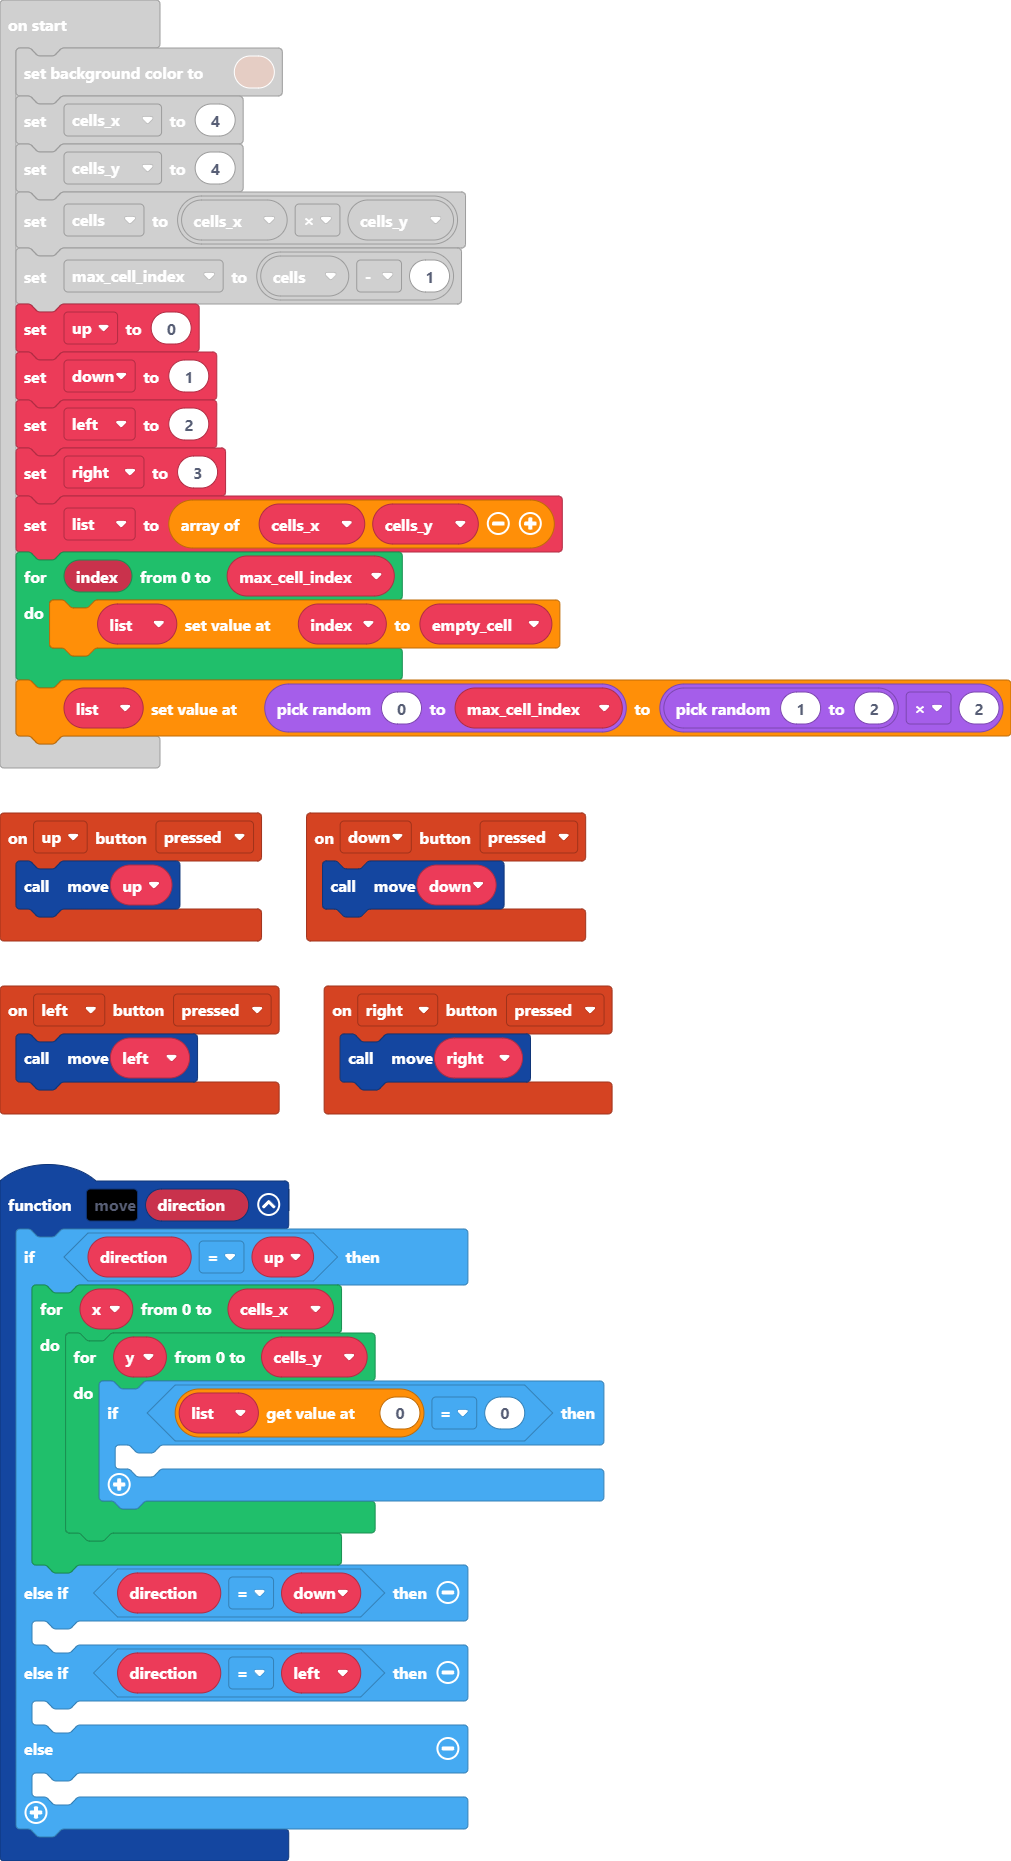
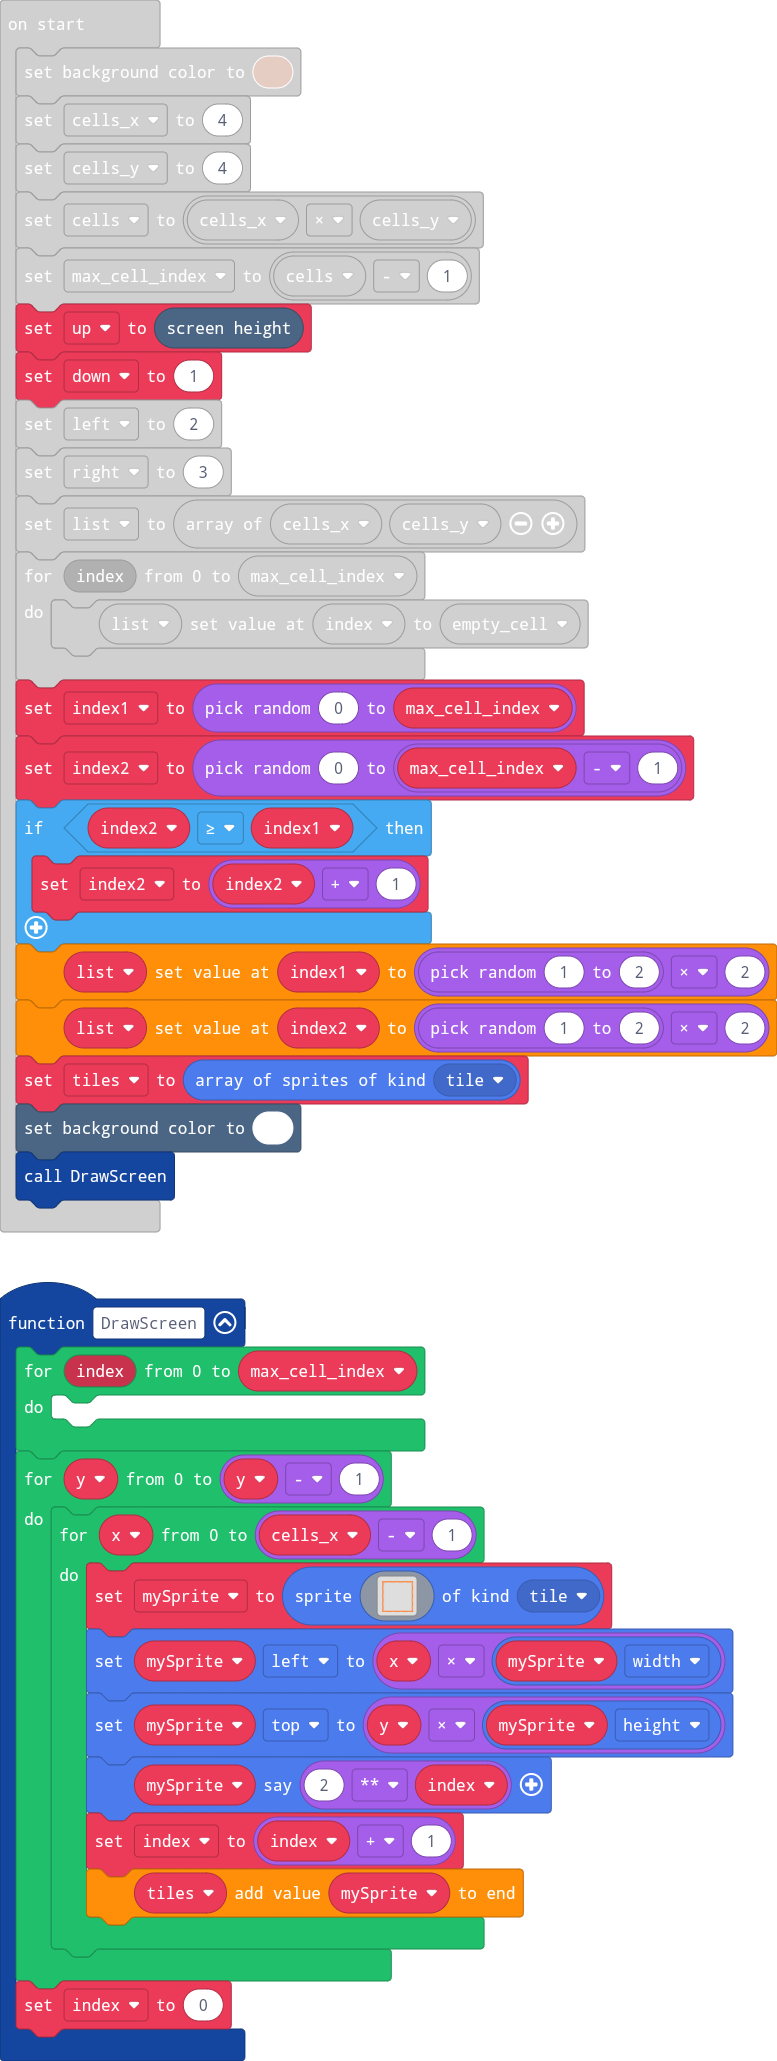
Update pxt.json, main.blocks, main.ts

diff --git a/main.ts b/main.ts
@@ -1,3 +1,51 @@
+namespace SpriteKind {
+    export const tile = SpriteKind.create()
+}
+function DrawScreen () {
+    for (let index = 0; index <= max_cell_index; index++) {
+    	
+    }
+    for (let y = 0; y <= y - 1; y++) {
+        for (let x = 0; x <= cells_x - 1; x++) {
+            mySprite = sprites.create(img`
+                ............................
+                .444444444444444444444444444
+                .4.........................4
+                .4.........................4
+                .4.........................4
+                .4.........................4
+                .4.........................4
+                .4.........................4
+                .4.........................4
+                .4.........................4
+                .4.........................4
+                .4.........................4
+                .4.........................4
+                .4.........................4
+                .4.........................4
+                .4.........................4
+                .4.........................4
+                .4.........................4
+                .4.........................4
+                .4.........................4
+                .4.........................4
+                .4.........................4
+                .4.........................4
+                .4.........................4
+                .4.........................4
+                .4.........................4
+                .4.........................4
+                .444444444444444444444444444
+                `, SpriteKind.tile)
+            mySprite.left = x * mySprite.width
+            mySprite.top = y * mySprite.height
+            mySprite.sayText(2 ** index)
+            index = index + 1
+            tiles2.push(mySprite)
+        }
+    }
+    index = 0
+}
 controller.up.onEvent(ControllerButtonEvent.Pressed, function () {
     move(up)
 })
@@ -27,19 +75,23 @@ function move (direction: number) {
     	
     }
 }
+let index = 0
+let mySprite: Sprite = null
+let tiles2: Sprite[] = []
 let list: number[] = []
 let right = 0
 let left = 0
 let down = 0
 let up = 0
+let max_cell_index = 0
 let cells_y = 0
 let cells_x = 0
 scene.setBackgroundColor(13)
 cells_x = 4
 cells_y = 4
 let cells = cells_x * cells_y
-let max_cell_index = cells - 1
-up = 0
+max_cell_index = cells - 1
+up = scene.screenHeight()
 down = 1
 left = 2
 right = 3
@@ -48,4 +100,13 @@ for (let index = 0; index <= max_cell_index; index++) {
     let empty_cell = 0
     list[index] = empty_cell
 }
-list[randint(0, max_cell_index)] = randint(1, 2) * 2
+let index1 = randint(0, max_cell_index)
+let index2 = randint(0, max_cell_index - 1)
+if (index2 >= index1) {
+    index2 = index2 + 1
+}
+list[index1] = randint(1, 2) * 2
+list[index2] = randint(1, 2) * 2
+tiles2 = sprites.allOfKind(SpriteKind.tile)
+scene.setBackgroundColor(1)
+DrawScreen()
